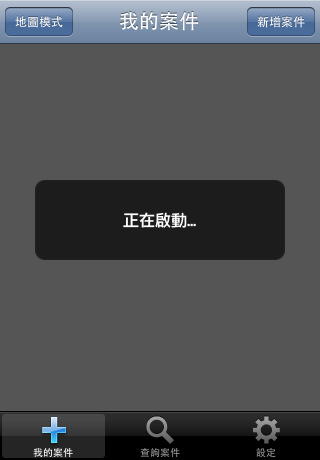
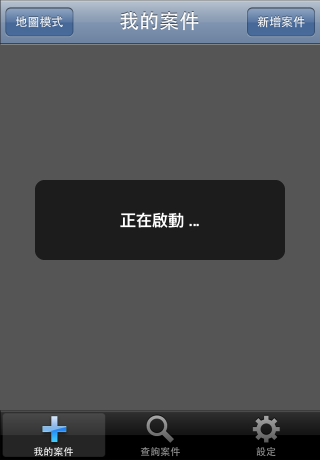
[iPhone] Rename Class name and Add 2x launch image

diff --git a/M-GOV_ios/MGOV/Classes/CaseAddViewController.m b/M-GOV_ios/MGOV/Classes/CaseAddViewController.m
@@ -216,7 +216,7 @@
 
 - (void)tableView:(UITableView *)tableView didSelectRowAtIndexPath:(NSIndexPath *)indexPath {
 	if (indexPath.section==2 && indexPath.row==0) {
-		typesViewController *typesView = [[typesViewController alloc] init];
+		TypesViewController *typesView = [[TypesViewController alloc] init];
 		UINavigationController *typeAndDetailSelector = [[UINavigationController alloc] initWithRootViewController:typesView];
 		// Show the view
 		typesView.delegate = self;
@@ -392,7 +392,7 @@
 	
 	// Submit with no type selected
 	if (alertView.tag==4000) {
-		typesViewController *typesView = [[typesViewController alloc] init];
+		TypesViewController *typesView = [[TypesViewController alloc] init];
 		UINavigationController *typeAndDetailSelector = [[UINavigationController alloc] initWithRootViewController:typesView];
 		// Show the view
 		typesView.delegate = self;

diff --git a/M-GOV_ios/MGOV/Classes/QueryViewController.m b/M-GOV_ios/MGOV/Classes/QueryViewController.m
@@ -193,7 +193,7 @@
 - (void)actionSheet:(UIActionSheet *)actionSheet clickedButtonAtIndex:(NSInteger)buttonIndex {
 	if (buttonIndex==1) {
 		// Select Type
-		typesViewController *typeSelector = [[typesViewController alloc] init];
+		TypesViewController *typeSelector = [[TypesViewController alloc] init];
 		typeSelector.delegate = self;
 		
 		UINavigationController *typeAndDetailSelector = [[UINavigationController alloc] initWithRootViewController:typeSelector];

diff --git a/M-GOV_ios/MGOV/Classes/CaseAddViewController.h b/M-GOV_ios/MGOV/Classes/CaseAddViewController.h
@@ -9,7 +9,7 @@
 #import <UIKit/UIKit.h>
 #import <QuartzCore/QuartzCore.h>
 
-#import "typesViewController.h"
+#import "TypesViewController.h"
 #import "TypeSelectorDelegateProtocol.h"
 #import "PhotoPickerTableCell.h"
 #import "LocationSelectorTableCell.h"

diff --git a/M-GOV_ios/MGOV/Classes/QueryViewController.h b/M-GOV_ios/MGOV/Classes/QueryViewController.h
@@ -12,7 +12,7 @@
 #import "QueryGoogleAppEngine.h"
 #import "CaseSelectorCell.h"
 #import "MGOVGeocoder.h"
-#import "typesViewController.h"
+#import "TypesViewController.h"
 #import "ASIHTTPRequest.h"
 
 #define kDataSectorSize 10
